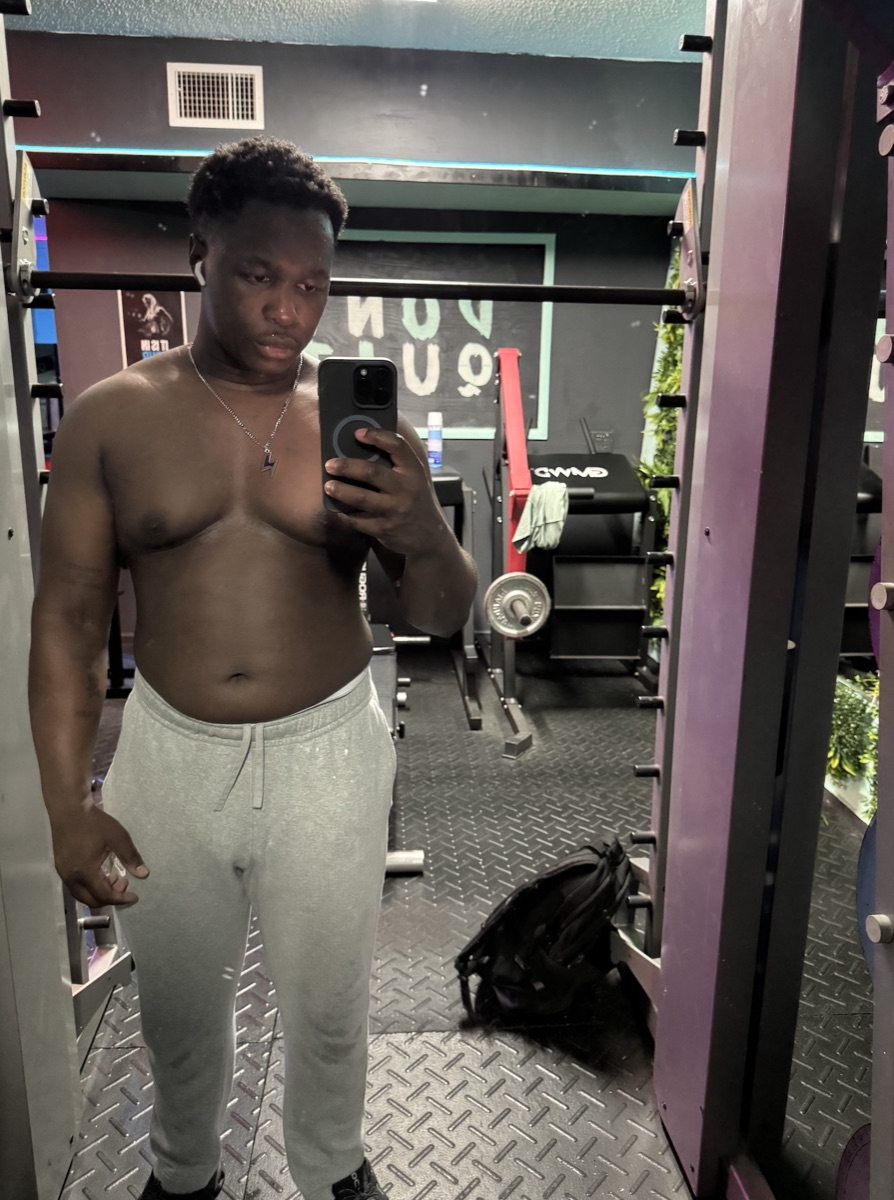
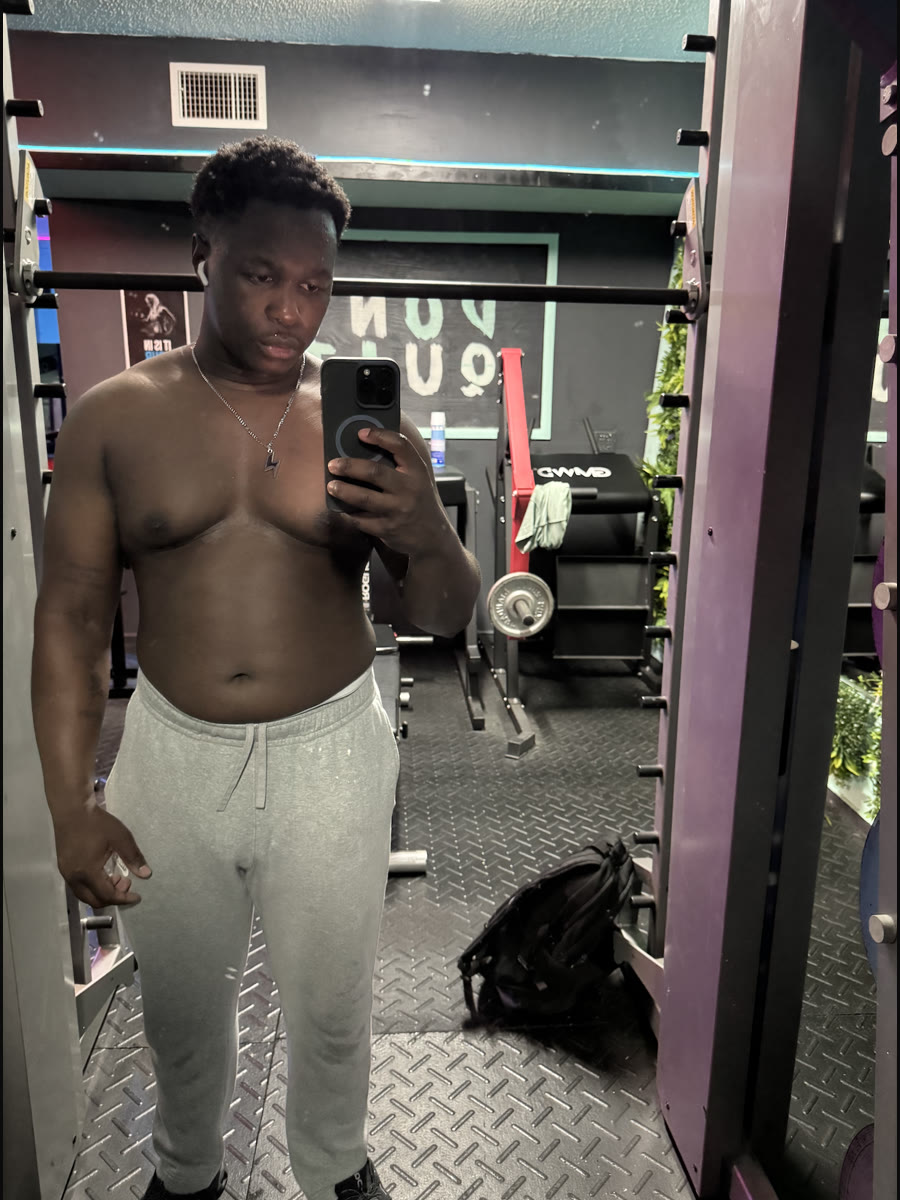
Fix before/after slider (uniform framing) + Owner label
- Re-process all 4 client photos to a uniform 900x1200 (3:4) frame, padded on
  a dark background so the full body stays and both sides of the slider line
  up cleanly (the earlier contain letterboxing made the mismatched-width shots
  look wrong). Slider back to cover.
- About: "Founder · Head Coach" -> "Owner · Head Coach"

diff --git a/src/components/sections/results-showcase.tsx b/src/components/sections/results-showcase.tsx
@@ -22,7 +22,6 @@ export function ResultsShowcase() {
                   afterSrc={c.afterSrc}
                   beforeAlt={`Before — ${c.alt}`}
                   afterAlt={`After — ${c.alt}`}
-                  fit="contain"
                   className="aspect-[3/4] border border-border bg-ink"
                 />
                 <figcaption className="mt-5 flex flex-wrap items-center justify-between gap-2">

diff --git a/src/components/sections/about.tsx b/src/components/sections/about.tsx
@@ -35,7 +35,7 @@ export function About() {
                 Jamaal Chaney
               </p>
               <p className="text-sm text-muted-foreground">
-                Founder · Head Coach
+                Owner · Head Coach
               </p>
             </div>
           </div>
